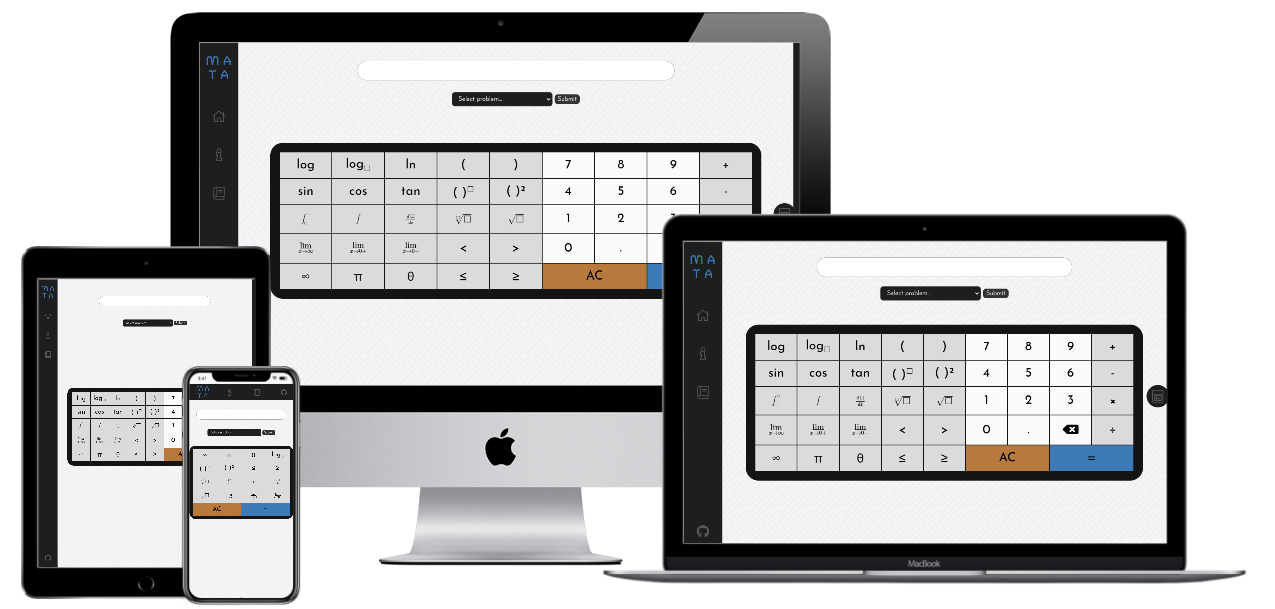
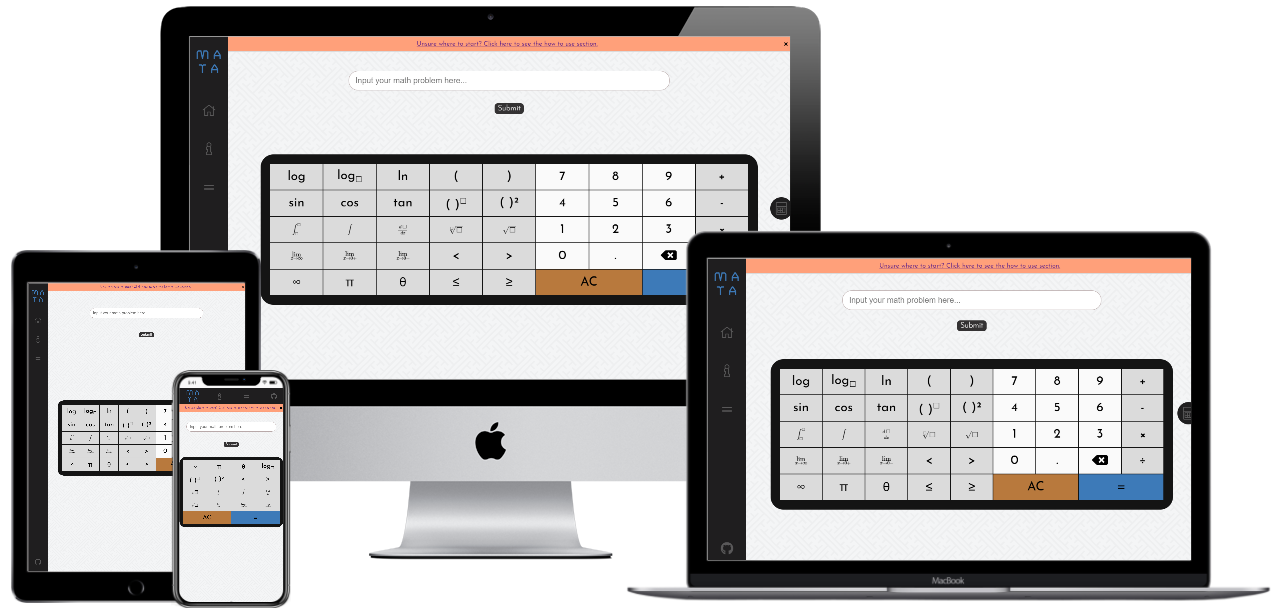
Updated mockup; changed differentiate key; removed comments

diff --git a/assets/js/main.js b/assets/js/main.js
@@ -7,7 +7,6 @@ document.querySelector('#solver-form').addEventListener("submit", e => {
 
     // Method for sending request to Wolfram API
     let baseURL = "https://cors-anywhere.herokuapp.com/https://api.wolframalpha.com/v2/query";
-    // let baseURL = "https://api.wolframalpha.com/v2/query";
     let appID = "HGP984-WK53RHXL47";
     let query = document.querySelector('#solver-form-input').value;
     let queryURL = encodeURIComponent(query);
@@ -94,12 +93,12 @@ document.querySelector('#solver-form').addEventListener("submit", e => {
 
     // Reloads Mathjax to read the MathMl inserted into the HTML
     MathJax.typeset();
+
     // Now will create buttons from the MathJax elements loaded to the page and 
     // add funtionality to reveal a step of the solution
     let rows = Array.from(document.querySelectorAll('mjx-math > mjx-mtable > mjx-table > mjx-itable > mjx-mtr'));
     let i;
     let btn;
-
 
     for (i = 0; i < rows.length - 1; i++) {
         rows[i].id = `step${i+1}`;
@@ -169,6 +168,7 @@ document.querySelector('#solver-form').addEventListener("submit", e => {
 
 });
 
+// Add the reveal click functionality to the buttons
 function addClickToButton(btn, id) {
     btn.addEventListener('click', () => {
         if (btn.id === "reveal-all-button") {

diff --git a/assets/js/keyboard.js b/assets/js/keyboard.js
@@ -89,8 +89,8 @@ function solverButtonClicked(button) {
             textCursor =  textCursor+12;
             break;
         case "differentiate":
-            input.value = `${textBefore}derivative of ${textAfter}`;
-            textCursor =  textCursor+14;
+            input.value = `${textBefore}derivative of (  )${textAfter}`;
+            textCursor =  textCursor+16;
             break;
         case "root":
             input.value = `${textBefore}(  )th root of (  )${textAfter}`;
